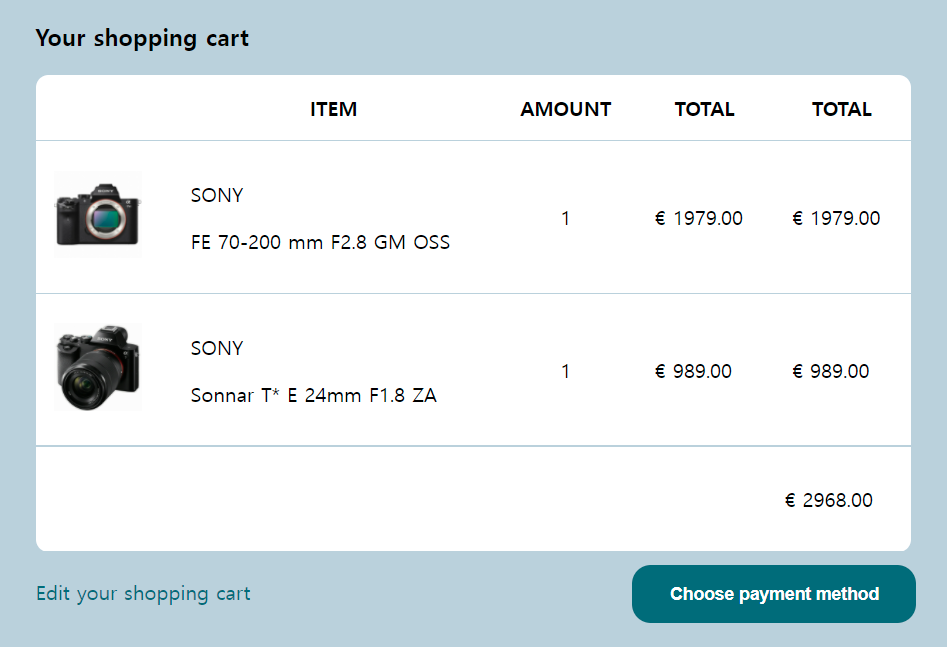
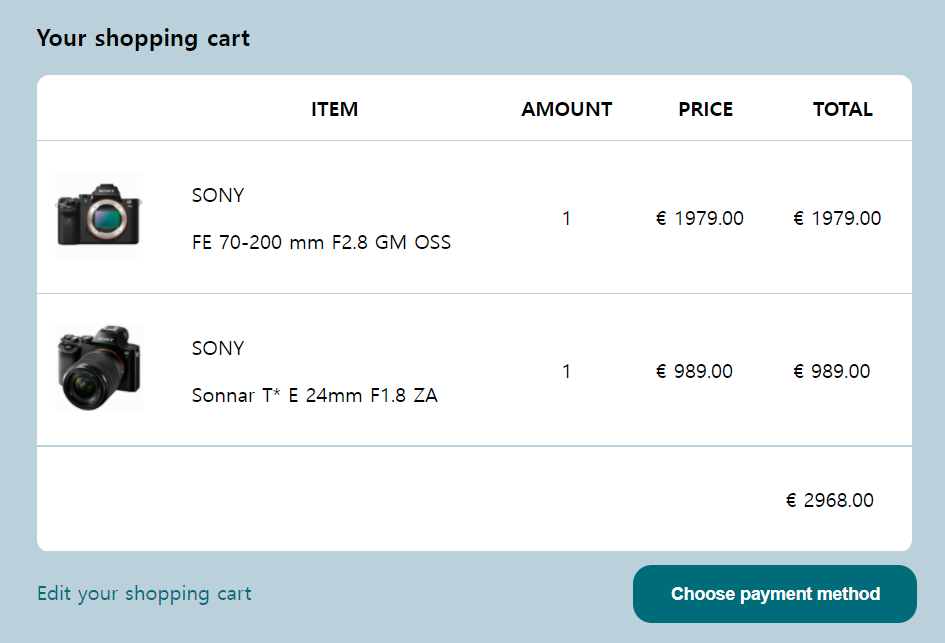
tableLayout.html & .png 수정

diff --git a/Basic HTML/tableLayout.html b/Basic HTML/tableLayout.html
@@ -15,7 +15,7 @@
             <th></th>
             <th>ITEM</th>
             <th>AMOUNT</th>
-            <th>TOTAL</th>
+            <th>PRICE</th>
             <th>TOTAL</th>
           </tr>
         </thead>
